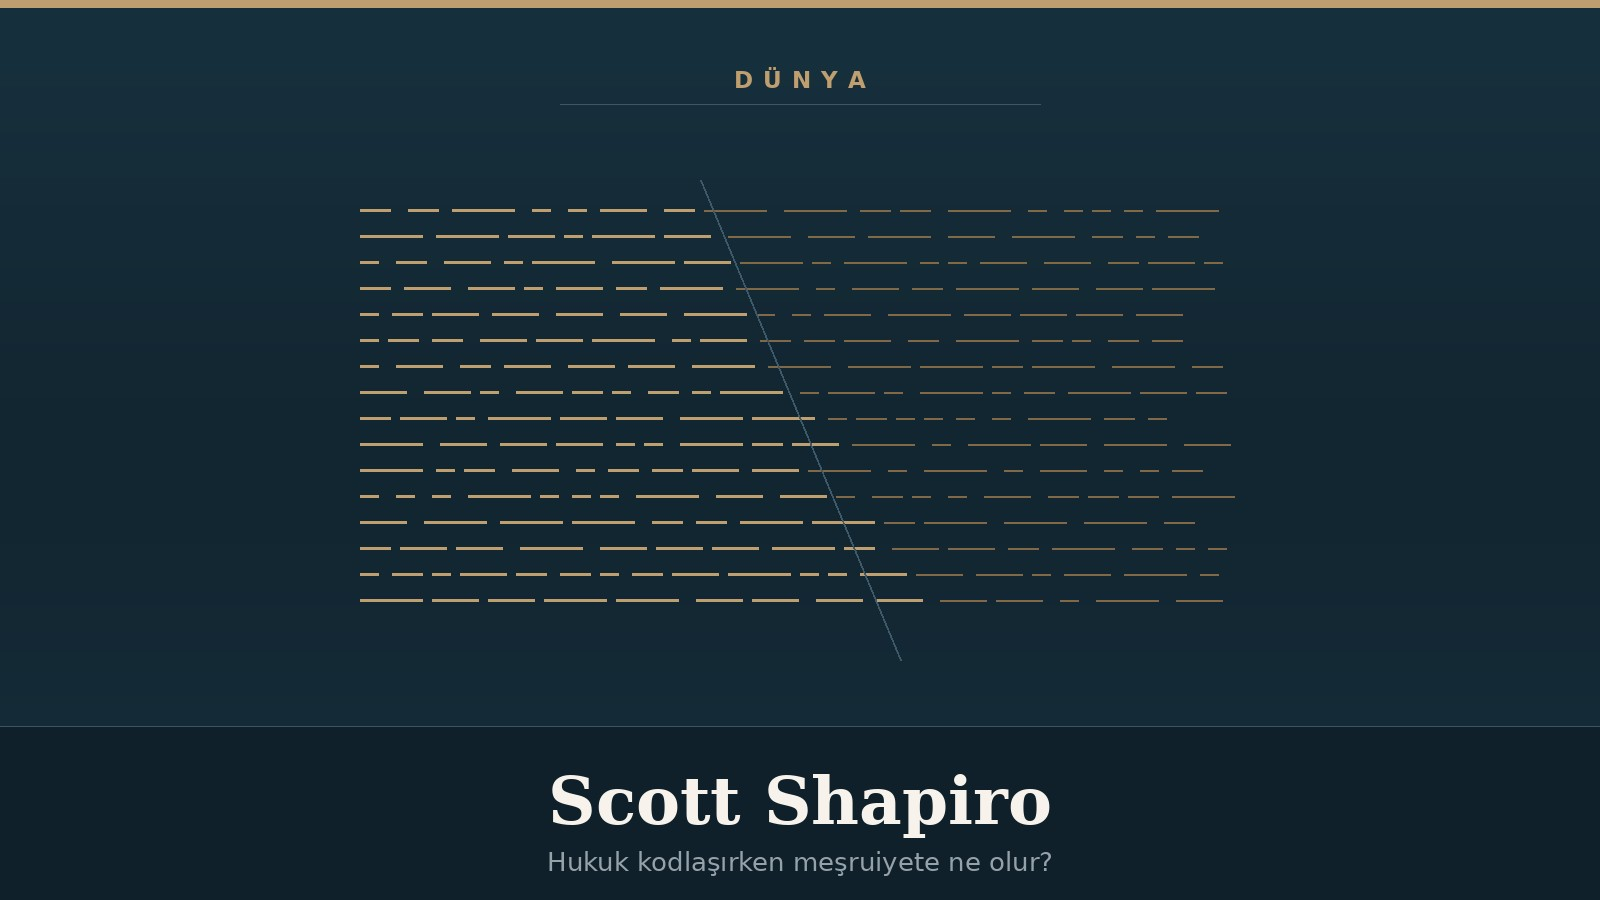
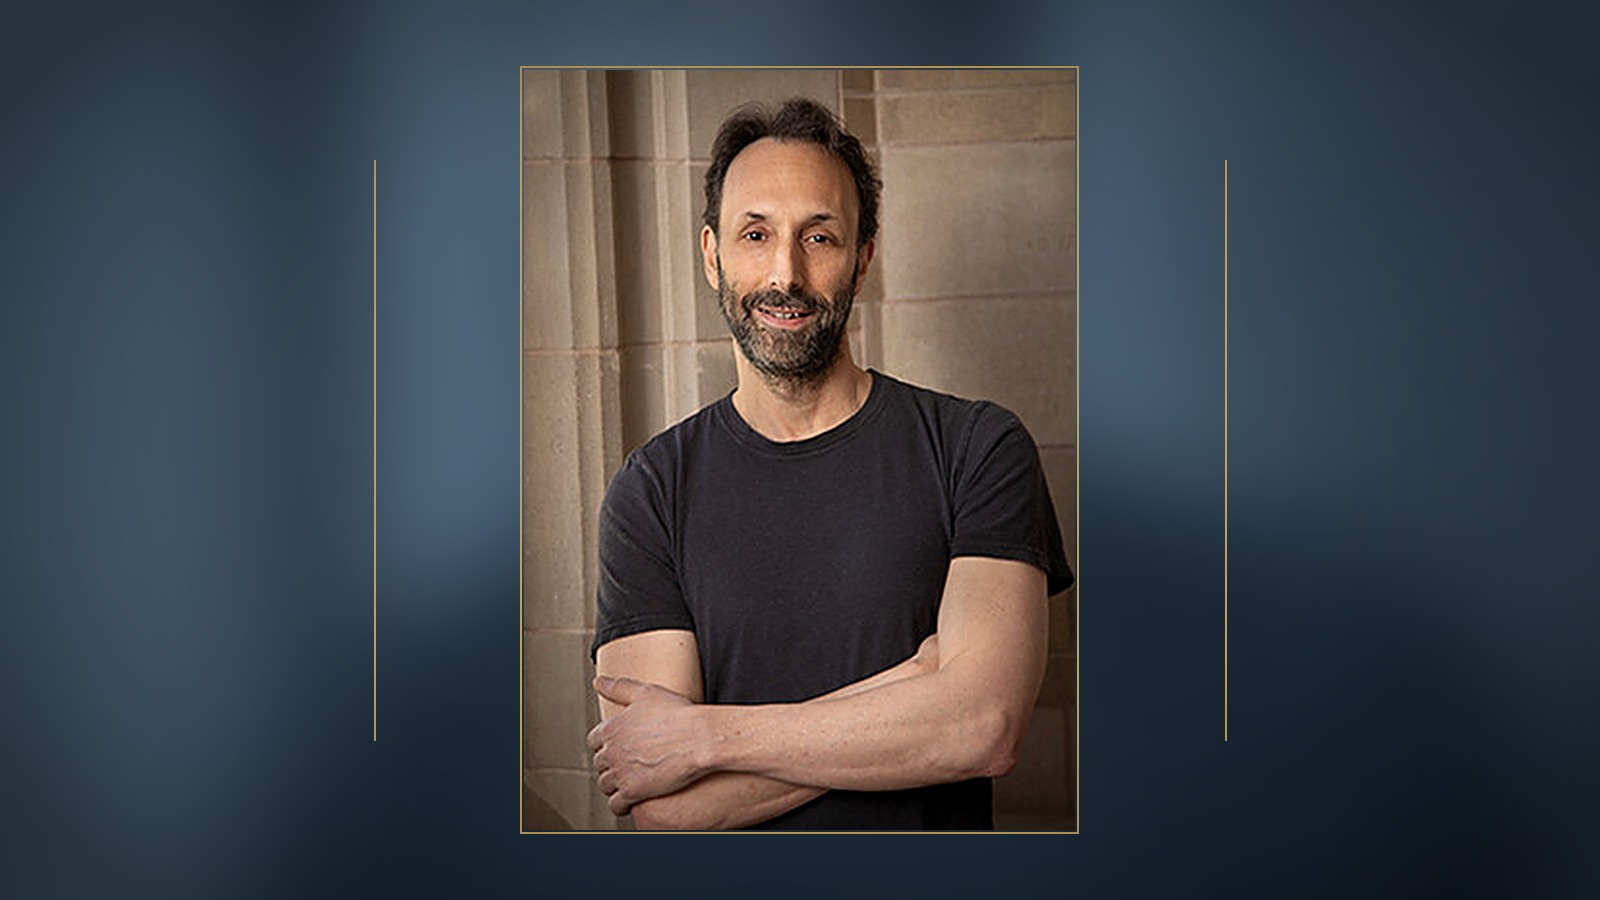
Add files via upload

diff --git a/prisma/seed-data.ts b/prisma/seed-data.ts
@@ -1498,7 +1498,7 @@ export const posts: SeedPost[] = [
       "Dan Kaufman'ın yapay zekâ eleştirisi ve David Wallace, Rob Precht, Galen Strawson gibi isimlerin yanıtları. Felsefe hakikat biriktirir mi, yöntem sonuçtan ayrılabilir mi?",
     contentType: "ANALIZ",
     coverImage: "/kapak/yz-felsefe-tartismasi.jpg",
-    imageCredit: "Felsefe Haberleri için hazırlanmış özgün kapak",
+    imageCredit: "Temsilî görsel — yapay zekâ ile üretilmiştir",
     featured: true,
     sourceName: "Leiter Reports",
     sourceUrl: "https://leiterreports.com/2026/08/24/some-skepticism-about-ai-enthusiasm-among-philosophers/",
@@ -5990,7 +5990,7 @@ Maltepe Üniversitesi'nin insan hakları bülteninin 2026 sayılarında, Kuçura
     slug: "scott-shapiro-hukuk-kod-yapay-zeka",
     summary: "Yale'li hukuk felsefecisi, yapay zekânın hukuktaki asıl meselesinin verimlilik değil iktidar olduğunu savunuyor. Kural tabanlı sistemler doğru sonuç verse bile, akıl yürütme insan tarafından izlenemez hâle geldiğinde 'hukuki gerekçe' otoriteye başvuruya dönüşüyor.",
     coverImage: "/kapak/scott-shapiro.jpg",
-    imageCredit: "Felsefe Haberleri için hazırlanmış özgün kapak",
+    imageCredit: "Scott Shapiro portresi",
     featured: true,
     seoTitle: "Scott Shapiro: yapay zekâ, hukuk ve meşruiyet",
     metaDescription: "Yale Hukuk Fakültesi'nden Scott Shapiro'ya göre yapay zekânın hukuktaki asıl hikâyesi iktidar. Kural tabanlı sistemler, açıklanabilirlik ve meşruiyet sorunu.",
